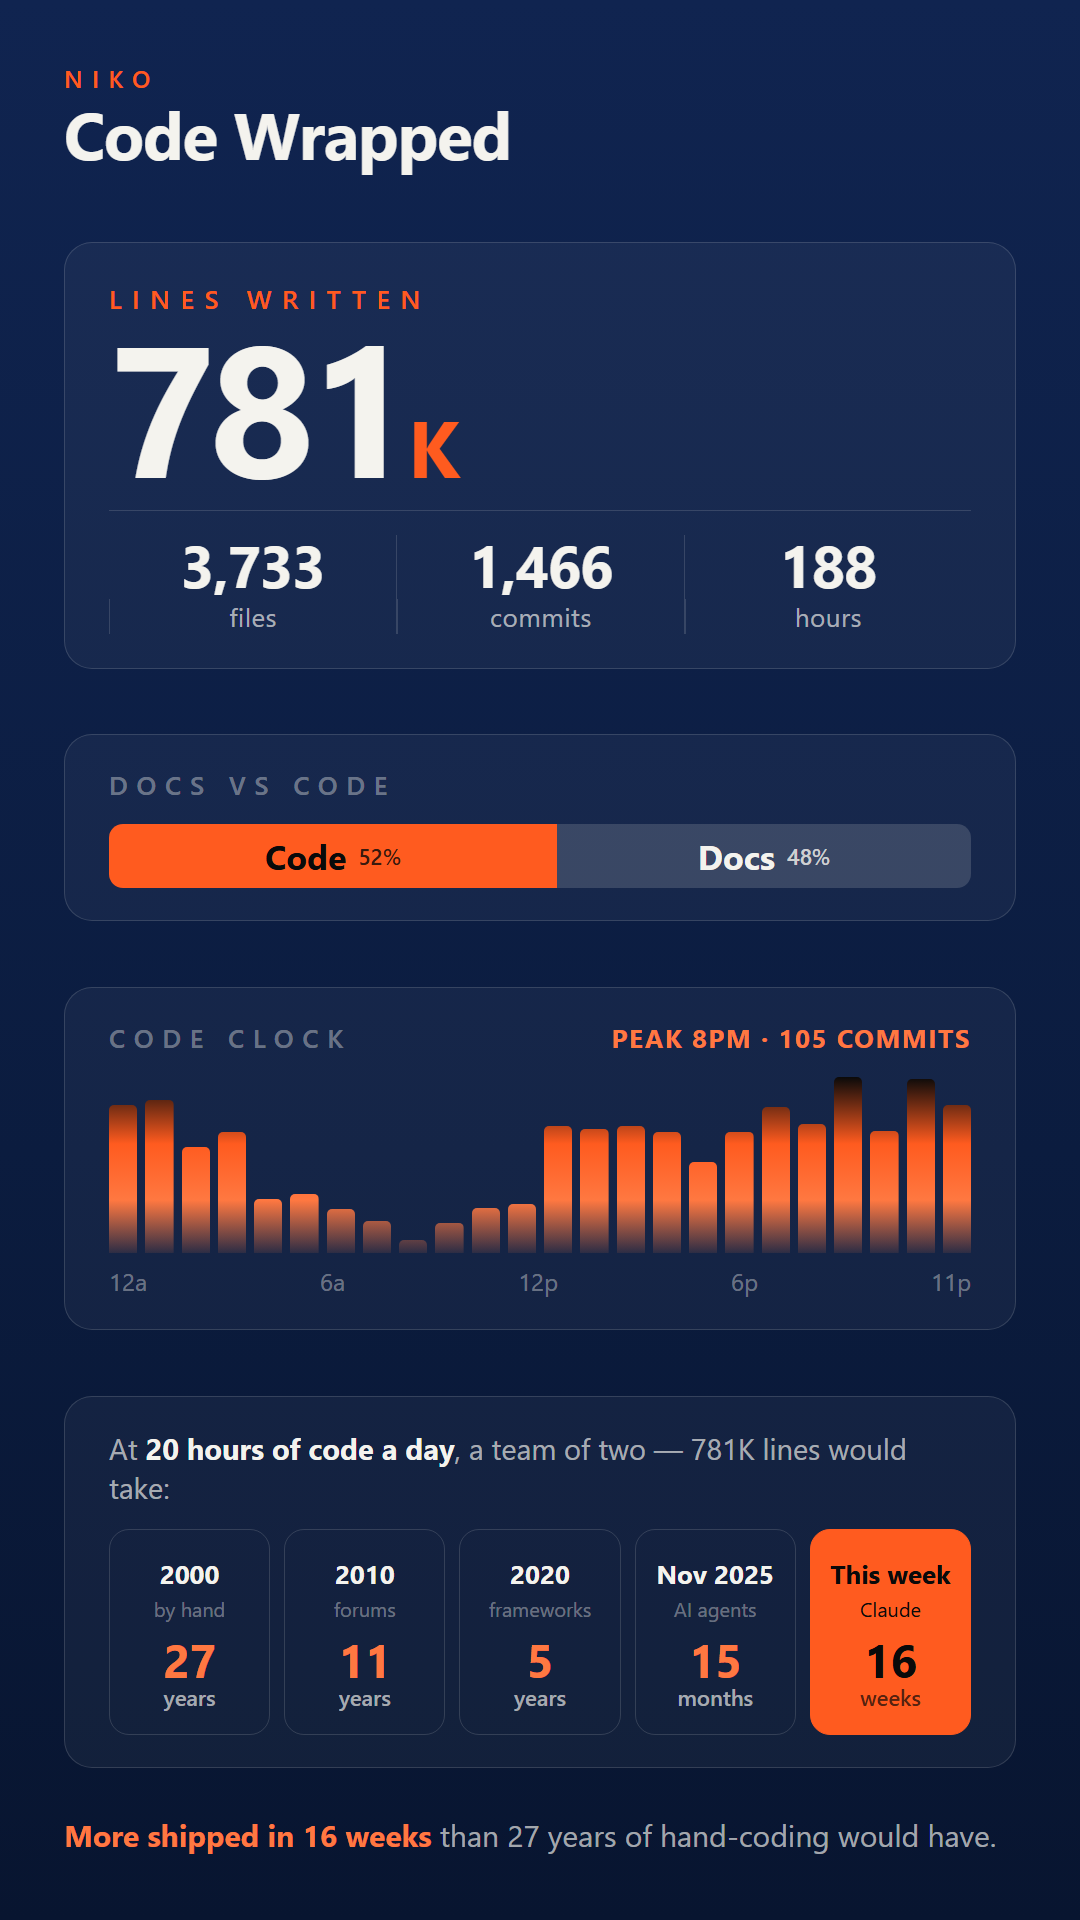
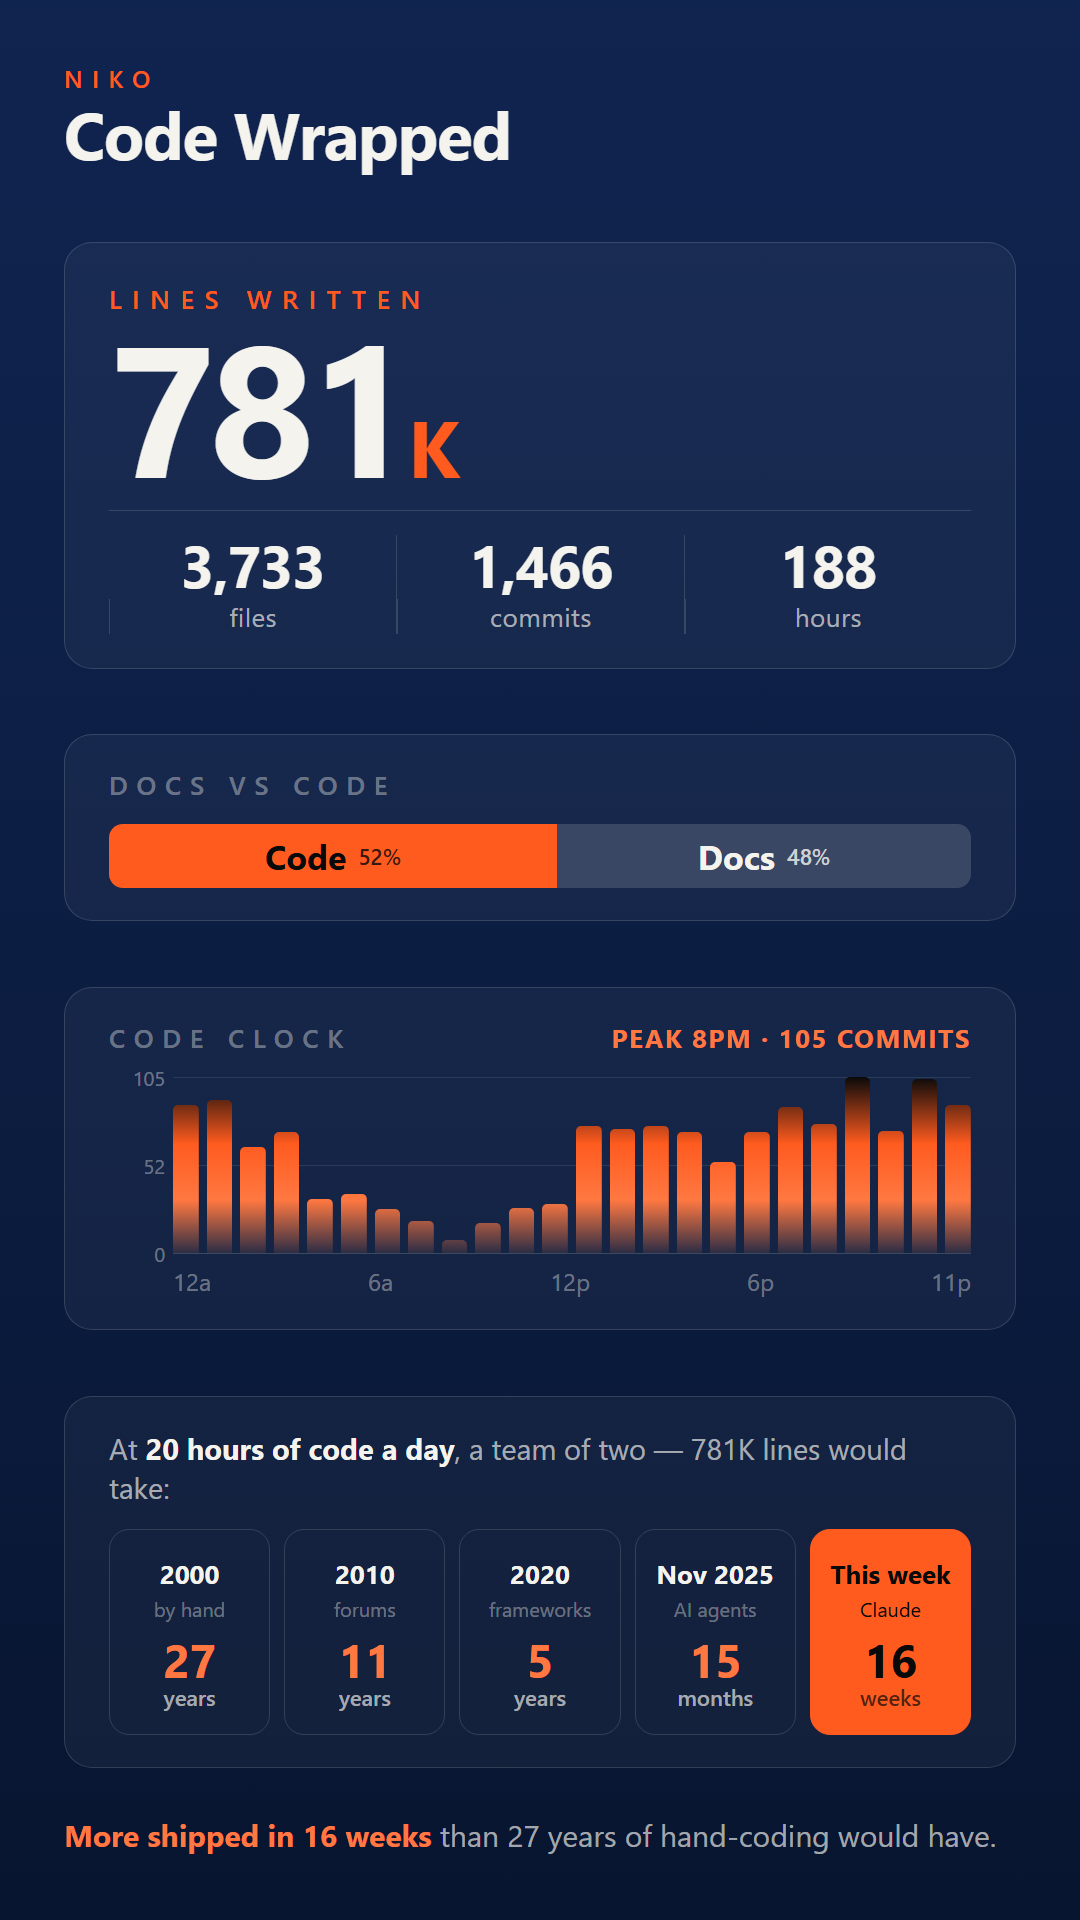
feat: give the code clock a labelled y-axis
The chart had a peak callout and nothing else, so every bar except the tallest
was unpriced - you could see that evenings were busier than mornings but not
by how much. Adds gridlines at the top, midpoint and baseline of the plot with
their commit counts in the left gutter, so any bar can be read off the scale.

Because the tallest bar is drawn at exactly BAR_H, the Y_MAX line sits flush
on the peak rather than floating above it, which is what makes the top label
read as the peak's value instead of an arbitrary ceiling.

Costs no height. The plot is a position:relative 176px box with a 64px label
gutter; the gridlines and labels are absolutely positioned inside it, so the
overflow-against-1920 check stays at exactly 0. The bars carry
position:relative purely so they paint over the gridlines - both are auto
z-index, so DOM order decides and .bars is second.

The x-axis row picked up the same 64px left margin, so 12a still sits under
the first bar (verified: 0px offset). Bars narrow from 28px to 26px to pay for
the gutter.

New placeholders: Y_MAX (max hourly count) and Y_MID (round(max/2)).

Verified: gridlines at 0/88/176, y labels centred on each, peak bar top flush
with the top line, overflow 0, tile left edges unchanged at 205.

Claude-Session: https://claude.ai/code/session_01TWyf74A2kzjhoeuwNRYFq5

Changed region(s): [[0.0917, 0.5625, 0.8861, 0.6875]]

diff --git a/example/index.html b/example/index.html
@@ -55,13 +55,29 @@
   .dc .docs{background:rgba(244,243,238,.16);color:var(--paper);display:flex;align-items:center;justify-content:center;gap:12px;font-size:34px;font-weight:700}
   .dc small{font-size:22px;font-weight:500;opacity:.8}
 
-  .clock .bars{margin-top:22px;display:flex;align-items:flex-end;gap:8px;height:176px}
+  /* The plot is a fixed 176px box with a 64px label gutter. Gridlines and y
+     labels are absolutely positioned inside it, so adding the axis costs no
+     height and the Step 4 overflow check stays at 0. */
+  .clock .plot{position:relative;margin-top:22px;height:176px;padding-left:64px}
+  .clock .ylab{position:absolute;left:0;top:0;width:56px;height:176px;font-size:20px;color:var(--p3)}
+  .clock .ylab span{position:absolute;right:0;transform:translateY(-50%);white-space:nowrap}
+  .clock .ylab span:nth-child(1){top:0}
+  .clock .ylab span:nth-child(2){top:50%}
+  .clock .ylab span:nth-child(3){top:100%}
+  .clock .gl{position:absolute;left:64px;right:0;top:0;height:176px}
+  .clock .gl i{position:absolute;left:0;right:0;height:1px;background:rgba(244,243,238,.10)}
+  .clock .gl i:nth-child(1){top:0}
+  .clock .gl i:nth-child(2){top:50%}
+  .clock .gl i:nth-child(3){top:100%;background:rgba(244,243,238,.18)}
+  /* position:relative so the bars paint OVER the absolutely-positioned
+     gridlines - both are auto z-index, so DOM order decides. */
+  .clock .bars{position:relative;display:flex;align-items:flex-end;gap:8px;height:176px}
   .clock .hr{
     flex:1;border-radius:5px 5px 0 0;min-height:5px;
     background:linear-gradient(to top, rgba(255,120,65,.10) 0%, #FF7841 30%, #FF5B1F 62%, #0a0a0a 100%);
     background-size:100% 176px;background-position:bottom;background-repeat:no-repeat;
   }
-  .clock .ax{display:flex;justify-content:space-between;margin-top:12px;font-size:24px;color:var(--p3)}
+  .clock .ax{display:flex;justify-content:space-between;margin:12px 0 0 64px;font-size:24px;color:var(--p3)}
 
   .era{margin-top:24px;padding:32px 44px}
   .era .cap{font-size:29px;color:var(--p2);margin-bottom:22px;line-height:1.35}
@@ -112,7 +128,11 @@
 
     <div class="tile sect clock">
       <div class="cap">Code clock<b>Peak 8pm &middot; 105 commits</b></div>
-      <div class="bars"><div class="hr" style="height:148px"></div><div class="hr" style="height:153px"></div><div class="hr" style="height:106px"></div><div class="hr" style="height:121px"></div><div class="hr" style="height:54px"></div><div class="hr" style="height:59px"></div><div class="hr" style="height:44px"></div><div class="hr" style="height:32px"></div><div class="hr" style="height:13px"></div><div class="hr" style="height:30px"></div><div class="hr" style="height:45px"></div><div class="hr" style="height:49px"></div><div class="hr" style="height:127px"></div><div class="hr" style="height:124px"></div><div class="hr" style="height:127px"></div><div class="hr" style="height:121px"></div><div class="hr" style="height:91px"></div><div class="hr" style="height:121px"></div><div class="hr" style="height:146px"></div><div class="hr" style="height:129px"></div><div class="hr" style="height:176px"></div><div class="hr" style="height:122px"></div><div class="hr" style="height:174px"></div><div class="hr" style="height:148px"></div></div>
+      <div class="plot">
+        <div class="ylab"><span>105</span><span>52</span><span>0</span></div>
+        <div class="gl"><i></i><i></i><i></i></div>
+        <div class="bars"><div class="hr" style="height:148px"></div><div class="hr" style="height:153px"></div><div class="hr" style="height:106px"></div><div class="hr" style="height:121px"></div><div class="hr" style="height:54px"></div><div class="hr" style="height:59px"></div><div class="hr" style="height:44px"></div><div class="hr" style="height:32px"></div><div class="hr" style="height:13px"></div><div class="hr" style="height:30px"></div><div class="hr" style="height:45px"></div><div class="hr" style="height:49px"></div><div class="hr" style="height:127px"></div><div class="hr" style="height:124px"></div><div class="hr" style="height:127px"></div><div class="hr" style="height:121px"></div><div class="hr" style="height:91px"></div><div class="hr" style="height:121px"></div><div class="hr" style="height:146px"></div><div class="hr" style="height:129px"></div><div class="hr" style="height:176px"></div><div class="hr" style="height:122px"></div><div class="hr" style="height:174px"></div><div class="hr" style="height:148px"></div></div>
+      </div>
       <div class="ax"><span>12a</span><span>6a</span><span>12p</span><span>6p</span><span>11p</span></div>
     </div>
 

diff --git a/skills/code-wrapped/template.html b/skills/code-wrapped/template.html
@@ -55,13 +55,29 @@
   .dc .docs{background:rgba(244,243,238,.16);color:var(--paper);display:flex;align-items:center;justify-content:center;gap:12px;font-size:34px;font-weight:700}
   .dc small{font-size:22px;font-weight:500;opacity:.8}
 
-  .clock .bars{margin-top:22px;display:flex;align-items:flex-end;gap:8px;height:176px}
+  /* The plot is a fixed 176px box with a 64px label gutter. Gridlines and y
+     labels are absolutely positioned inside it, so adding the axis costs no
+     height and the Step 4 overflow check stays at 0. */
+  .clock .plot{position:relative;margin-top:22px;height:176px;padding-left:64px}
+  .clock .ylab{position:absolute;left:0;top:0;width:56px;height:176px;font-size:20px;color:var(--p3)}
+  .clock .ylab span{position:absolute;right:0;transform:translateY(-50%);white-space:nowrap}
+  .clock .ylab span:nth-child(1){top:0}
+  .clock .ylab span:nth-child(2){top:50%}
+  .clock .ylab span:nth-child(3){top:100%}
+  .clock .gl{position:absolute;left:64px;right:0;top:0;height:176px}
+  .clock .gl i{position:absolute;left:0;right:0;height:1px;background:rgba(244,243,238,.10)}
+  .clock .gl i:nth-child(1){top:0}
+  .clock .gl i:nth-child(2){top:50%}
+  .clock .gl i:nth-child(3){top:100%;background:rgba(244,243,238,.18)}
+  /* position:relative so the bars paint OVER the absolutely-positioned
+     gridlines - both are auto z-index, so DOM order decides. */
+  .clock .bars{position:relative;display:flex;align-items:flex-end;gap:8px;height:176px}
   .clock .hr{
     flex:1;border-radius:5px 5px 0 0;min-height:5px;
     background:linear-gradient(to top, rgba(255,120,65,.10) 0%, #FF7841 30%, #FF5B1F 62%, #0a0a0a 100%);
     background-size:100% 176px;background-position:bottom;background-repeat:no-repeat;
   }
-  .clock .ax{display:flex;justify-content:space-between;margin-top:12px;font-size:24px;color:var(--p3)}
+  .clock .ax{display:flex;justify-content:space-between;margin:12px 0 0 64px;font-size:24px;color:var(--p3)}
 
   .era{margin-top:24px;padding:32px 44px}
   .era .cap{font-size:29px;color:var(--p2);margin-bottom:22px;line-height:1.35}
@@ -112,7 +128,11 @@
 
     <div class="tile sect clock">
       <div class="cap">Code clock<b>{{PEAK}}</b></div>
-      <div class="bars">{{CLOCK_BARS}}</div>
+      <div class="plot">
+        <div class="ylab"><span>{{Y_MAX}}</span><span>{{Y_MID}}</span><span>0</span></div>
+        <div class="gl"><i></i><i></i><i></i></div>
+        <div class="bars">{{CLOCK_BARS}}</div>
+      </div>
       <div class="ax"><span>12a</span><span>6a</span><span>12p</span><span>6p</span><span>11p</span></div>
     </div>
 

diff --git a/skills/code-wrapped/SKILL.md b/skills/code-wrapped/SKILL.md
@@ -56,6 +56,7 @@ Use the Bash tool. All use `--all --no-merges` for the full picture.
   `<div class="hr" style="height:{max(5, round(v / mx * 176))}px"></div>` joined with no separator.
   Emit real HTML here, not a JS array — the bars must survive a page where scripts do not run.
 - **PEAK**: the busiest hour and its count, e.g. `Peak 8pm &middot; 105 commits`. Index of the max in the array; `0` is 12am, `12` is 12pm.
+- **Y_MAX / Y_MID**: the clock's y-axis scale — `max(hours)` and `round(max/2)`. They label gridlines at the top, middle and baseline of the 176px plot, so the reader can price any bar, not just the peak. Because the tallest bar is exactly `BAR_H`, `Y_MAX` sits flush on the peak.
 
 ### Era time-machine (the bottom grid)
 Answer: *"at 20 hours of code a day (a 2-person team), how long would `LINES` take with each era's tools?"* Use net delivered lines-per-person-hour (LPH) that climbs with tooling, against 20 person-hours/day, every day:
@@ -74,7 +75,7 @@ Convert days → the cleanest human unit and **round to a clean number** (years 
 
 ## Step 3 — render
 
-Copy `template.html` (next to this file) to `out`, substituting every `{{PLACEHOLDER}}`. Create the output dir if needed. Placeholders: `NAME, LINES, LINES_SUFFIX, FILES, COMMITS, HOURS, CODE_PCT, DOCS_PCT, CLOCK_BARS, PEAK, ERA_2000, ERA_2000_U, ERA_2010, ERA_2010_U, ERA_2020, ERA_2020_U, ERA_NOV, ERA_NOV_U, ERA_NOW, ERA_NOW_U, KICKER_A, KICKER_B`. Assert none are left unfilled before writing.
+Copy `template.html` (next to this file) to `out`, substituting every `{{PLACEHOLDER}}`. Create the output dir if needed. Placeholders: `NAME, LINES, LINES_SUFFIX, FILES, COMMITS, HOURS, CODE_PCT, DOCS_PCT, CLOCK_BARS, PEAK, Y_MAX, Y_MID, ERA_2000, ERA_2000_U, ERA_2010, ERA_2010_U, ERA_2020, ERA_2020_U, ERA_NOV, ERA_NOV_U, ERA_NOW, ERA_NOW_U, KICKER_A, KICKER_B`. Assert none are left unfilled before writing.
 
 ## Step 4 — verify fit and alignment (do not skip)
 
@@ -86,6 +87,9 @@ const L = s => Math.round(document.querySelector(s).getBoundingClientRect().left
 ({
   overflow: st.scrollHeight - 1920,                       // MUST be 0
   bars: document.querySelectorAll('.hr').length,          // MUST be 24
+  gridlines: [...document.querySelectorAll('.clock .gl i')]
+    .map(e => Math.round(e.getBoundingClientRect().top
+              - document.querySelector('.clock .plot').getBoundingClientRect().top)), // MUST be [0, 88, 176]
   edges: [L('.hero .num'), L('.hero .stats .n'), L('.dc'),
           L('.clock .cap'), L('.era .cap'), L('.era .cell')],   // MUST all match
   tmTops: [...document.querySelectorAll('.era .cell .tm')]
@@ -96,6 +100,7 @@ const L = s => Math.round(document.querySelector(s).getBoundingClientRect().left
 - `overflow` must be **0**. Anything positive is clipped content; anything negative is dead space. Fix by adjusting the shared paddings and label sizes, not by growing the stage.
 - All tile-content left edges must match. The header eyebrow sits one tile-padding (~45px) further left, flush with the tile's outer edge — that is correct, not a bug.
 - All era `.tm` tops must be equal. If one differs, a label wrapped: keep era labels to one word.
+- The clock gridlines must land on 0 / 88 / 176 and the y labels must centre on them. The axis lives in a `position:relative` 176px plot with the gridlines absolutely positioned behind `.bars`, so it costs no height — if `overflow` moved when you touched the clock, something in there went back into flow.
 
 Then check it at phone width, in an iframe so you do not have to resize the window:
 

diff --git a/README.md b/README.md
@@ -19,7 +19,7 @@ Two details make it actually phone-safe:
 | Files | Unique paths ever touched |
 | Commits | `git rev-list --all --no-merges --count` |
 | Focused hours | Session-gap method. A gap over 90 minutes starts a new session, in-session gaps are summed. Conservative floor, not a guess. |
-| Code clock | Commits per hour of day, local time, 24 bars |
+| Code clock | Commits per hour of day, local time, 24 bars, with a labelled y-axis so any hour is readable and not just the peak |
 | Docs vs code | Conventional-commit prefixes. `docs:` on one side, everything else on the other. |
 | Era time machine | The same line count at 2000 / 2010 / 2020 / Nov 2025 tooling rates against 20 person-hours a day, next to what it actually took |
 
